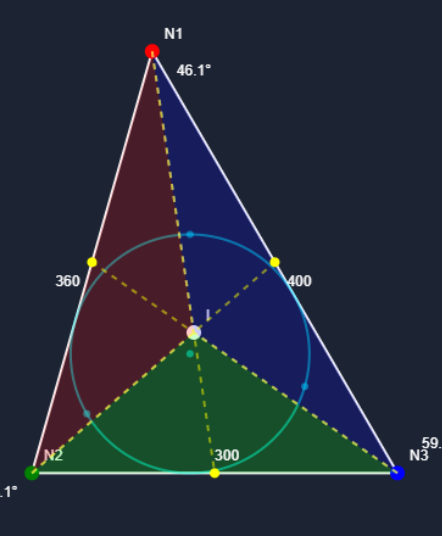
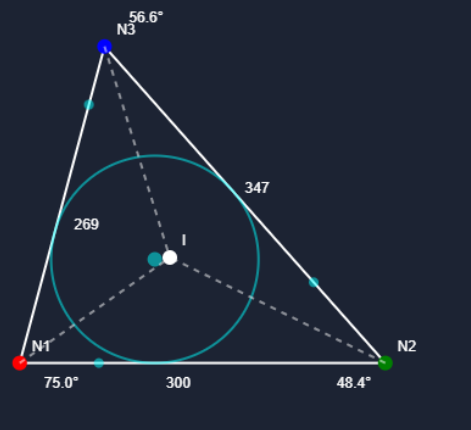
Agent query: 1. Are the tangent points correctly positioned at the intersection of the incircle and the triangle sides? 2. Are the edge colors correct: NC1 (between N2 and N3) is red, NC2 (between N1 and N3) is blue, and NC3 (between N1 and N2) is green? 3. Are all other features of the triangle sys

diff --git a/script.js b/script.js
@@ -297,11 +297,11 @@ class TriangleSystem {
             const nextNode = ['n2', 'n3', 'n1'][index];
             const dx = this.system[nextNode].x - this.system[node].x;
             const dy = this.system[nextNode].y - this.system[node].y;
-            const length = Math.sqrt(dx * dx + dy * dy);
-            const t = (length / 2 - radius) / length;
+            const edgeLength = Math.sqrt(dx * dx + dy * dy);
+            const distanceFromNode = (edgeLength * radius) / (edgeLength - radius);
             tangentPoints.push({
-                x: this.system[node].x + t * dx,
-                y: this.system[node].y + t * dy
+                x: this.system[node].x + (dx * distanceFromNode) / edgeLength,
+                y: this.system[node].y + (dy * distanceFromNode) / edgeLength
             });
         });
         return tangentPoints;
@@ -353,9 +353,21 @@ class TriangleSystem {
         ctx.beginPath();
         ctx.moveTo(this.system.n1.x, this.system.n1.y);
         ctx.lineTo(this.system.n2.x, this.system.n2.y);
+        ctx.strokeStyle = 'green'; // NC3
+        ctx.lineWidth = 2;
+        ctx.stroke();
+
+        ctx.beginPath();
+        ctx.moveTo(this.system.n2.x, this.system.n2.y);
         ctx.lineTo(this.system.n3.x, this.system.n3.y);
-        ctx.closePath();
-        ctx.strokeStyle = 'white';
+        ctx.strokeStyle = 'red'; // NC1
+        ctx.lineWidth = 2;
+        ctx.stroke();
+
+        ctx.beginPath();
+        ctx.moveTo(this.system.n3.x, this.system.n3.y);
+        ctx.lineTo(this.system.n1.x, this.system.n1.y);
+        ctx.strokeStyle = 'blue'; // NC2
         ctx.lineWidth = 2;
         ctx.stroke();
     }
